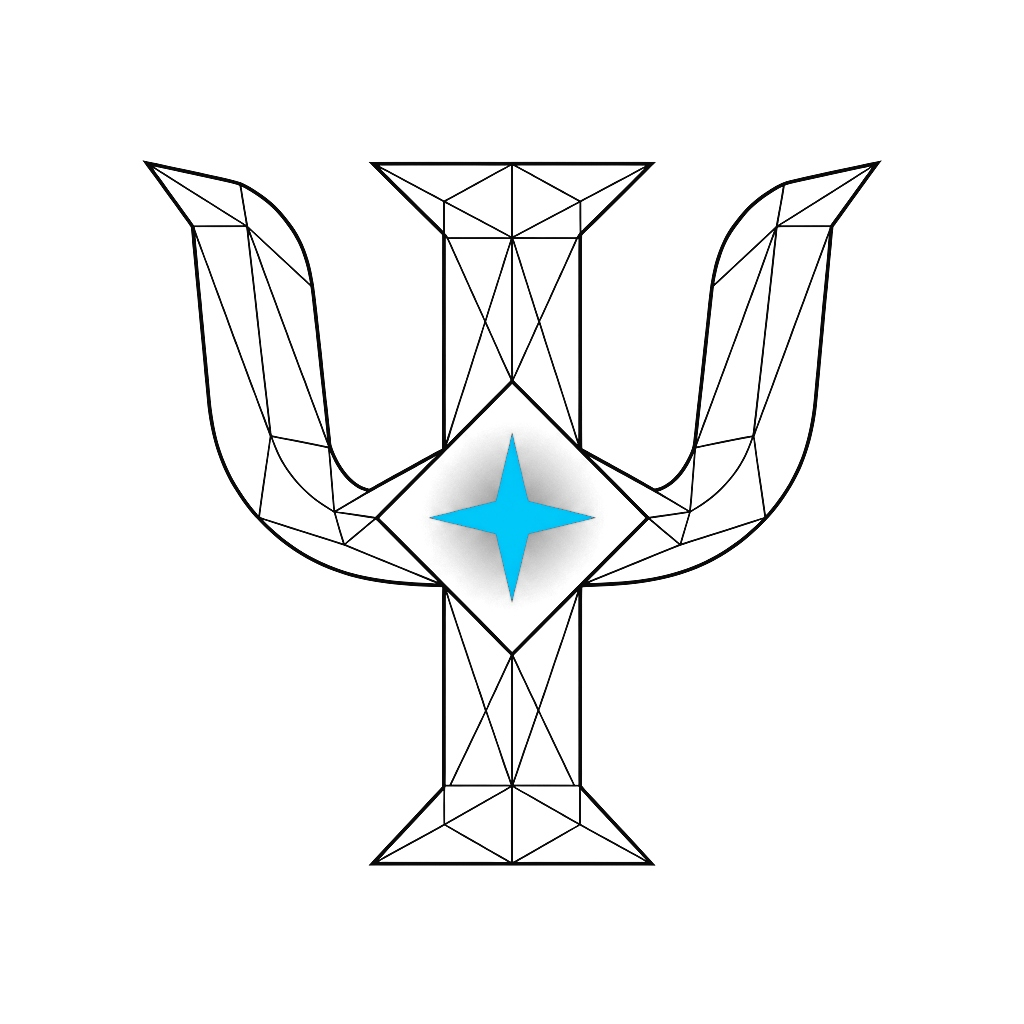
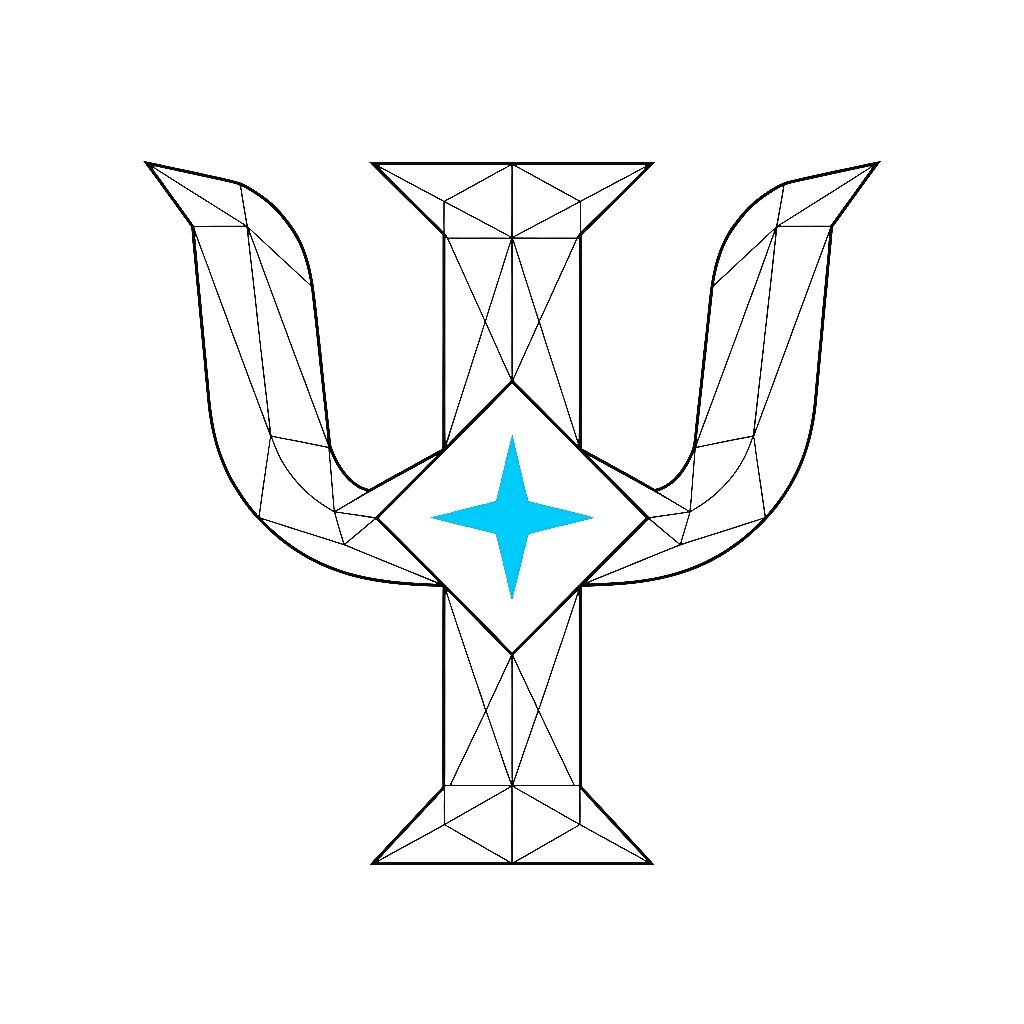
fix: eliminate all shadow and blur behind the beam on light version

diff --git a/src/components/brand/StudioLogo.tsx b/src/components/brand/StudioLogo.tsx
@@ -119,7 +119,7 @@ export const StudioLogoMark: React.FC<{
         <polygon
           points="60,49 63,58 72,58 64.5,61.5 60,67 55.5,61.5 48,58 57,58"
           fill={starFill}
-          filter={`url(#star-glow-${theme})`}
+          filter={isLight ? undefined : `url(#star-glow-${theme})`}
         />
         <circle cx="60" cy="58" r="1.8" fill={starCenterFill} />
       </svg>
